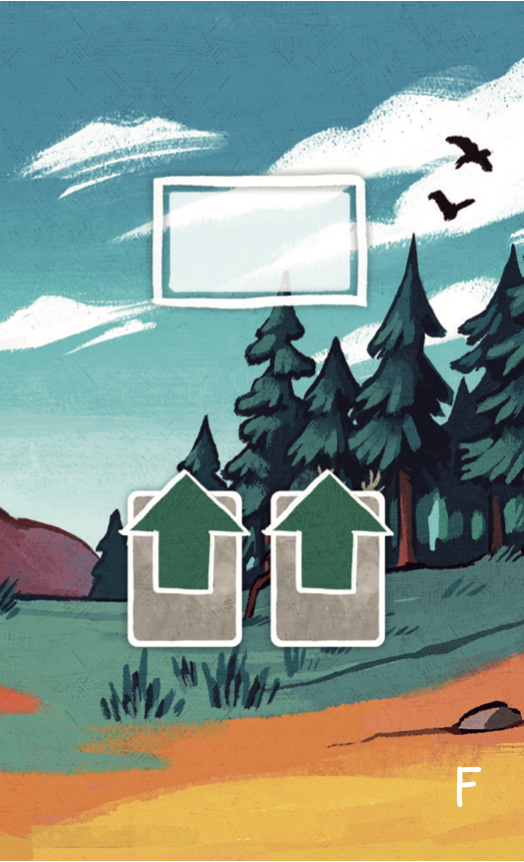
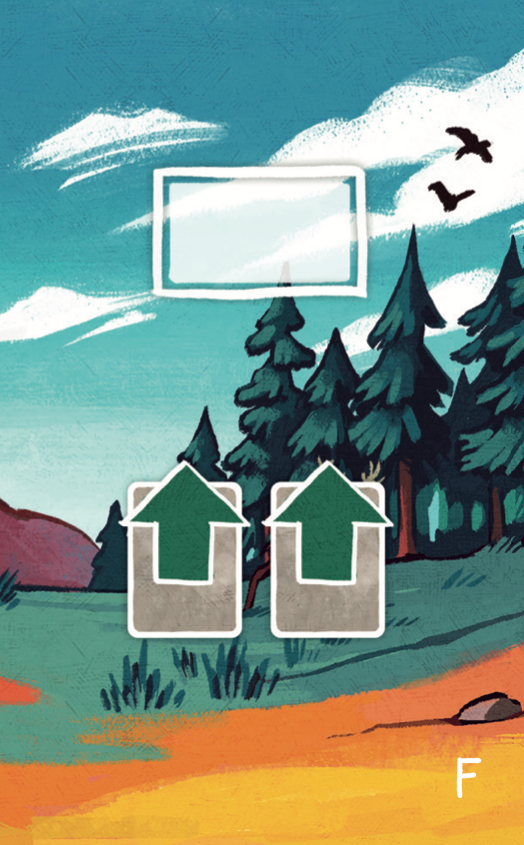
fix: modify totems positions and moves during PlaceTotemPhase

diff --git a/src/main/java/it/polimi/ingsw/am48/view/gui/GameBoardController.java b/src/main/java/it/polimi/ingsw/am48/view/gui/GameBoardController.java
@@ -18,6 +18,7 @@ import javafx.scene.image.ImageView;
 import javafx.scene.layout.*;
 import javafx.util.Duration;
 
+import java.util.ArrayList;
 import java.util.List;
 import java.util.Map;
 
@@ -39,7 +40,8 @@ public class GameBoardController implements ModelObserver {
     // Board center
     @FXML private HBox upper_row, lower_row;
     @FXML private HBox deckable_sup, building_sup, deckable_inf, building_inf;
-    @FXML private VBox offerTurnCard, offerCardA, offerCardB, offerCardC, offerCardD, offerCardE, offerCardF, offerCardG;
+    @FXML private Pane offerTurnCard;
+    @FXML private VBox offerCardA, offerCardB, offerCardC, offerCardD, offerCardE, offerCardF, offerCardG;
     @FXML private VBox deck;
 
     private VirtualServer server;
@@ -58,8 +60,22 @@ public class GameBoardController implements ModelObserver {
     // Variabile per stabilire il cambio della texture del deck in base all'era in cui ci si trova
     private int currentEra = 0;
 
+    // Ordine iniziale completo dei totem (per mantenere slot fissi quando alcuni vengono rimossi)
+    private List<String> initialTotemOrder;
+
     // Ordine colori assegnati in base all'ingresso
     private final String[] totemColors = {"blue", "red", "black", "white", "yellow"};
+
+
+    // MODIFICA QUI per ajustare la posizione verticale di ogni totem:
+    private static final double[][] SLOT_CENTER_FRACTIONS = {
+            {},
+            {},
+            {0.311, 0.451},                       // 2 players
+            {0.260, 0.435, 0.600},                // 3 players
+            {0.222, 0.397, 0.570, 0.710},         // 4 players
+            {0.146, 0.320, 0.494, 0.667, 0.807}   // 5 players
+    };
 
     @FXML
     public void initialize() {
@@ -108,7 +124,7 @@ public class GameBoardController implements ModelObserver {
         if (this.currentEra == era) return; // Evita di riapplicare lo stile se l'era non è cambiata
         this.currentEra = era;
 
-        // Rimuove le classi precedenti per evitare conflittti
+        // Rimuove le classi precedenti per evitare conflitti
         deck.getStyleClass().removeAll("deck-era1", "deck-era2", "deck-era3");
 
         // Aggiunge la classe corrispondente all'era
@@ -143,6 +159,7 @@ public class GameBoardController implements ModelObserver {
 
     private void updateBoardConfiguration(int numPlayers) {
         this.currentPlayerCount = numPlayers;
+        this.initialTotemOrder = null;
 
[1 lines of base64/hex data omitted]
         try {
@@ -177,6 +194,10 @@ public class GameBoardController implements ModelObserver {
         List<String> orderList = state.getOfferTurnCardOrder();
         if (orderList == null || orderList.isEmpty()) return;
 
+        if (initialTotemOrder == null) {
+            initialTotemOrder = new ArrayList<>(orderList);
+        }
+
         String currentPhase = state.getCurrentPhase();
         boolean isPlaceTotemPhase = "PLACE_TOTEM".equals(currentPhase);
         boolean isMyTurn = isPlaceTotemPhase
@@ -199,19 +220,42 @@ public class GameBoardController implements ModelObserver {
         double topOffset = Math.max(0, (vboxH - displayedH) / 2.0);
         double slotH = displayedH / numSlots;
 
-        offerTurnCard.setSpacing(0);
-        offerTurnCard.setPadding(new Insets(topOffset, 0, 0, 0));
-        offerTurnCard.setAlignment(Pos.TOP_CENTER);
+        double[] slotFractions = (numSlots >= 2 && numSlots <= 5) ? SLOT_CENTER_FRACTIONS[numSlots] : null;
+        double totemSize = slotH * 0.72;
 
         for (int i = 0; i < numSlots; i++) {
             StackPane slotPane = new StackPane();
-            slotPane.setPrefHeight(slotH);
-            slotPane.setMinHeight(slotH);
-            slotPane.setMaxHeight(slotH);
             slotPane.setAlignment(Pos.CENTER);
 
-            if (i < orderList.size()) {
-                String nick = orderList.get(i);
+            double slotCenterY;
+            if (slotFractions != null && i < slotFractions.length) {
+                slotCenterY = topOffset + slotFractions[i] * displayedH;
+            } else {
+                slotCenterY = topOffset + slotH * (i + 0.5);
+            }
+
+            double slotSize = totemSize * 1.10;
+            slotPane.setPrefHeight(slotSize);
+            slotPane.setMinHeight(slotSize);
+            slotPane.setMaxHeight(slotSize);
+
+            slotPane.setPrefWidth(95);
+            slotPane.setMinWidth(95);
+            slotPane.setMaxWidth(95);
+
+            slotPane.setLayoutY(slotCenterY - slotSize / 2.0);
+
+            // Ogni giocatore ha uno slot fisso in base all'ordine iniziale,
+            // anche dopo che alcuni totem sono stati rimossi
+            String nick = null;
+            if (initialTotemOrder != null && i < initialTotemOrder.size()) {
+                String slotPlayer = initialTotemOrder.get(i);
+                if (orderList.contains(slotPlayer)) {
+                    nick = slotPlayer;
+                }
+            }
+
+            if (nick != null) {
                 ImageView totemImg = new ImageView();
                 try {
                     String path = getTotemPath(nick, state);
@@ -221,7 +265,7 @@ public class GameBoardController implements ModelObserver {
                     System.err.println("Impossibile caricare totem: " + nick);
                 }
                 totemImg.setPreserveRatio(true);
-                totemImg.setFitHeight(slotH * 0.72);
+                totemImg.setFitHeight(totemSize);
 
                 if (nick.equals(myNickname) && isMyTurn) {
                     totemImg.getStyleClass().add("totem-selectable");
